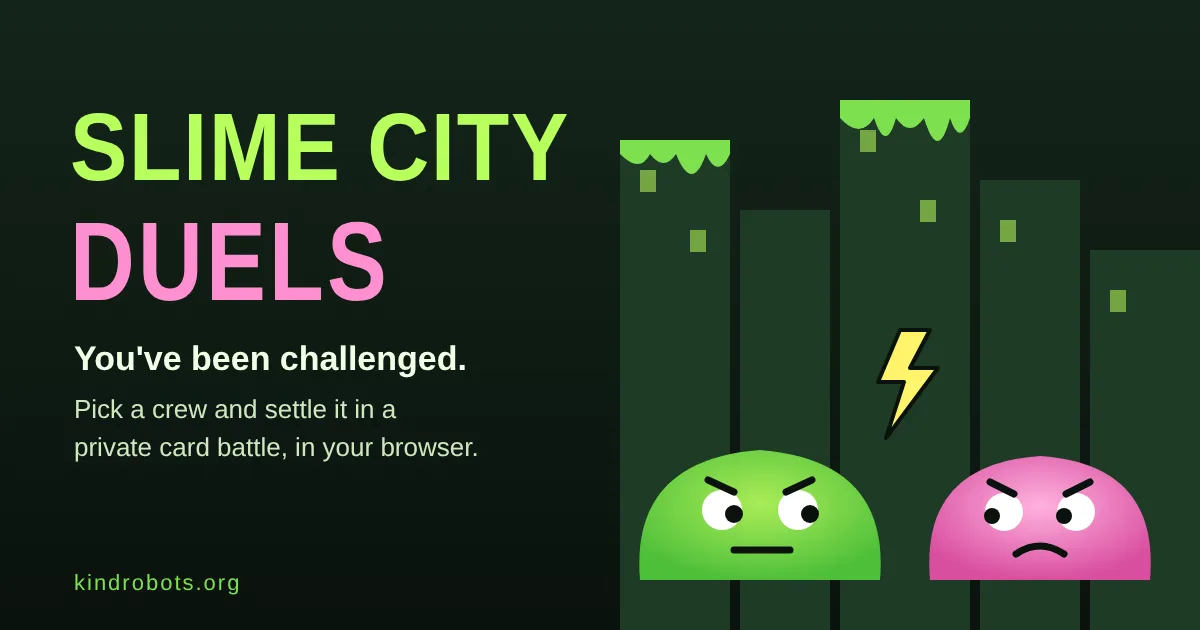
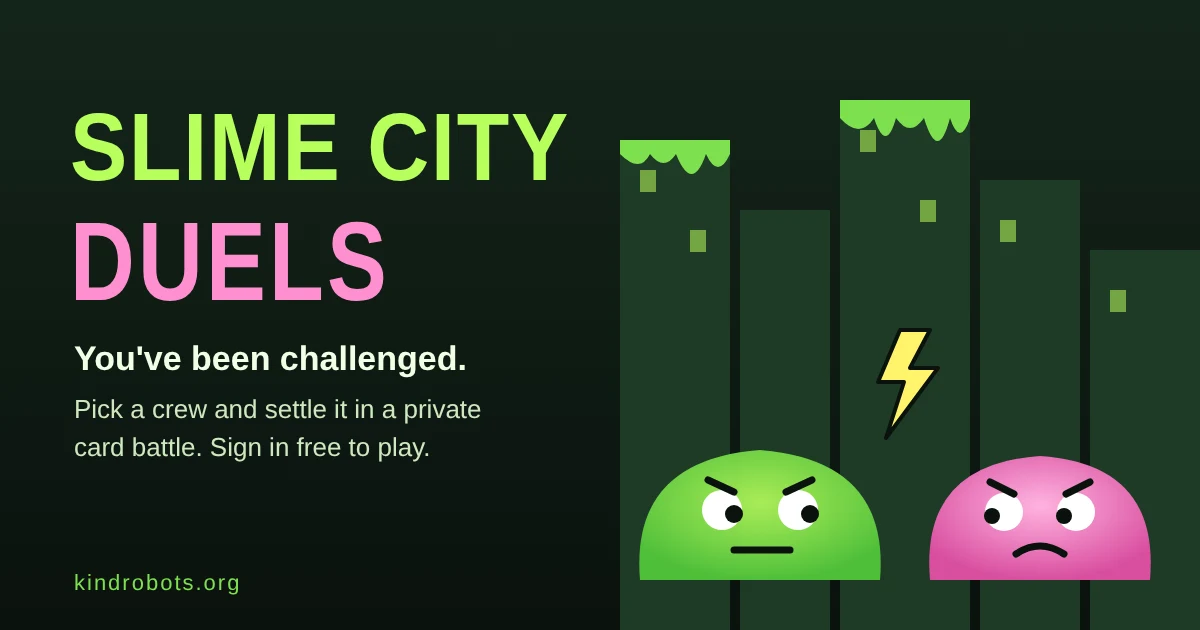
fix(slime-city): duel invite card says it needs a free sign-in
The duel page now has a signed-in content tab, so the front-door contract
requires its share card to name the sign-in instead of promising play in
your browser.

Claude-Session: https://claude.ai/code/session_01L5NKxbjRpFzgVw9ip691Jp

Changed region(s): [[0.0617, 0.6937, 0.4008, 0.7238], [0.3392, 0.6333, 0.4008, 0.6635]]

diff --git a/utils/gameLinkPreview.ts b/utils/gameLinkPreview.ts
@@ -82,7 +82,7 @@ export const GAME_LINK_PREVIEWS: Record<string, GameLinkPreview> = {
   'slime-city-pvp': {
     title: 'Slime City Duels | Kind Robots',
     description:
-      'You have been challenged. Pick one of six rival crews and settle it in a private Slime City card battle, in your browser.',
+      'You have been challenged. Pick one of six rival crews and settle it in a private Slime City card battle. Sign in free to play.',
     image: '/slime-city-pvp/link-preview.webp',
   },
   'zuzu-gamebook': {
